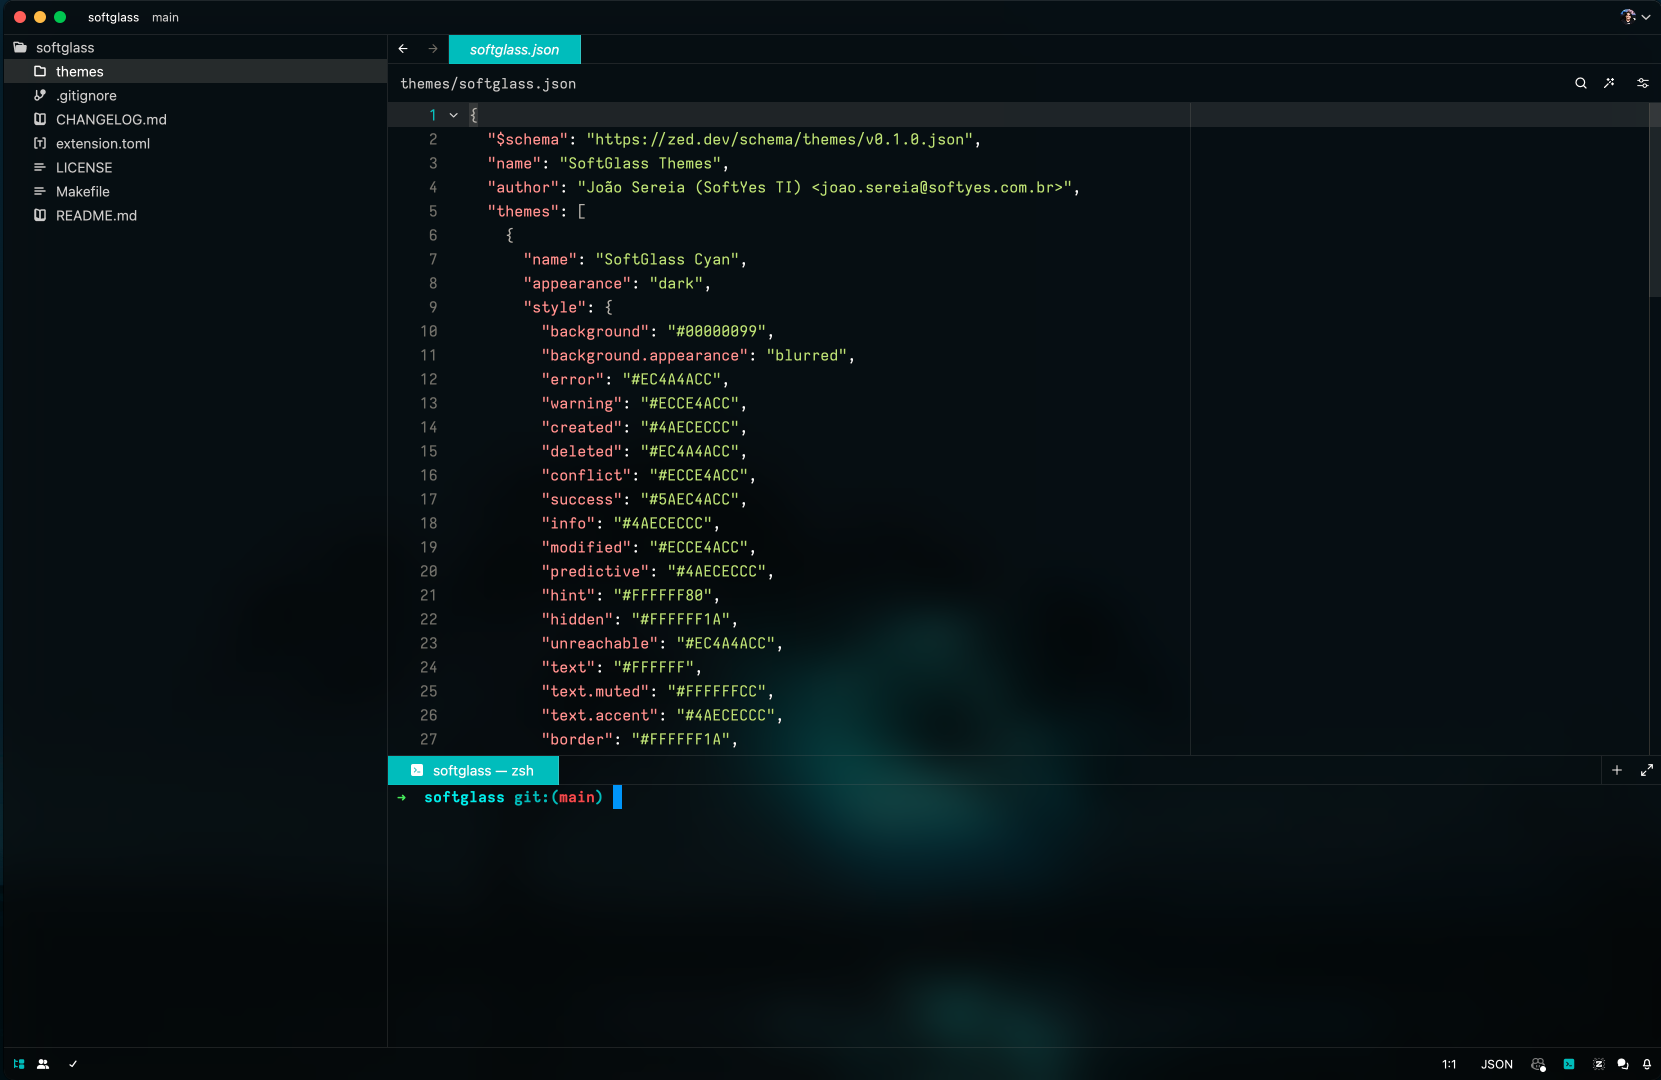
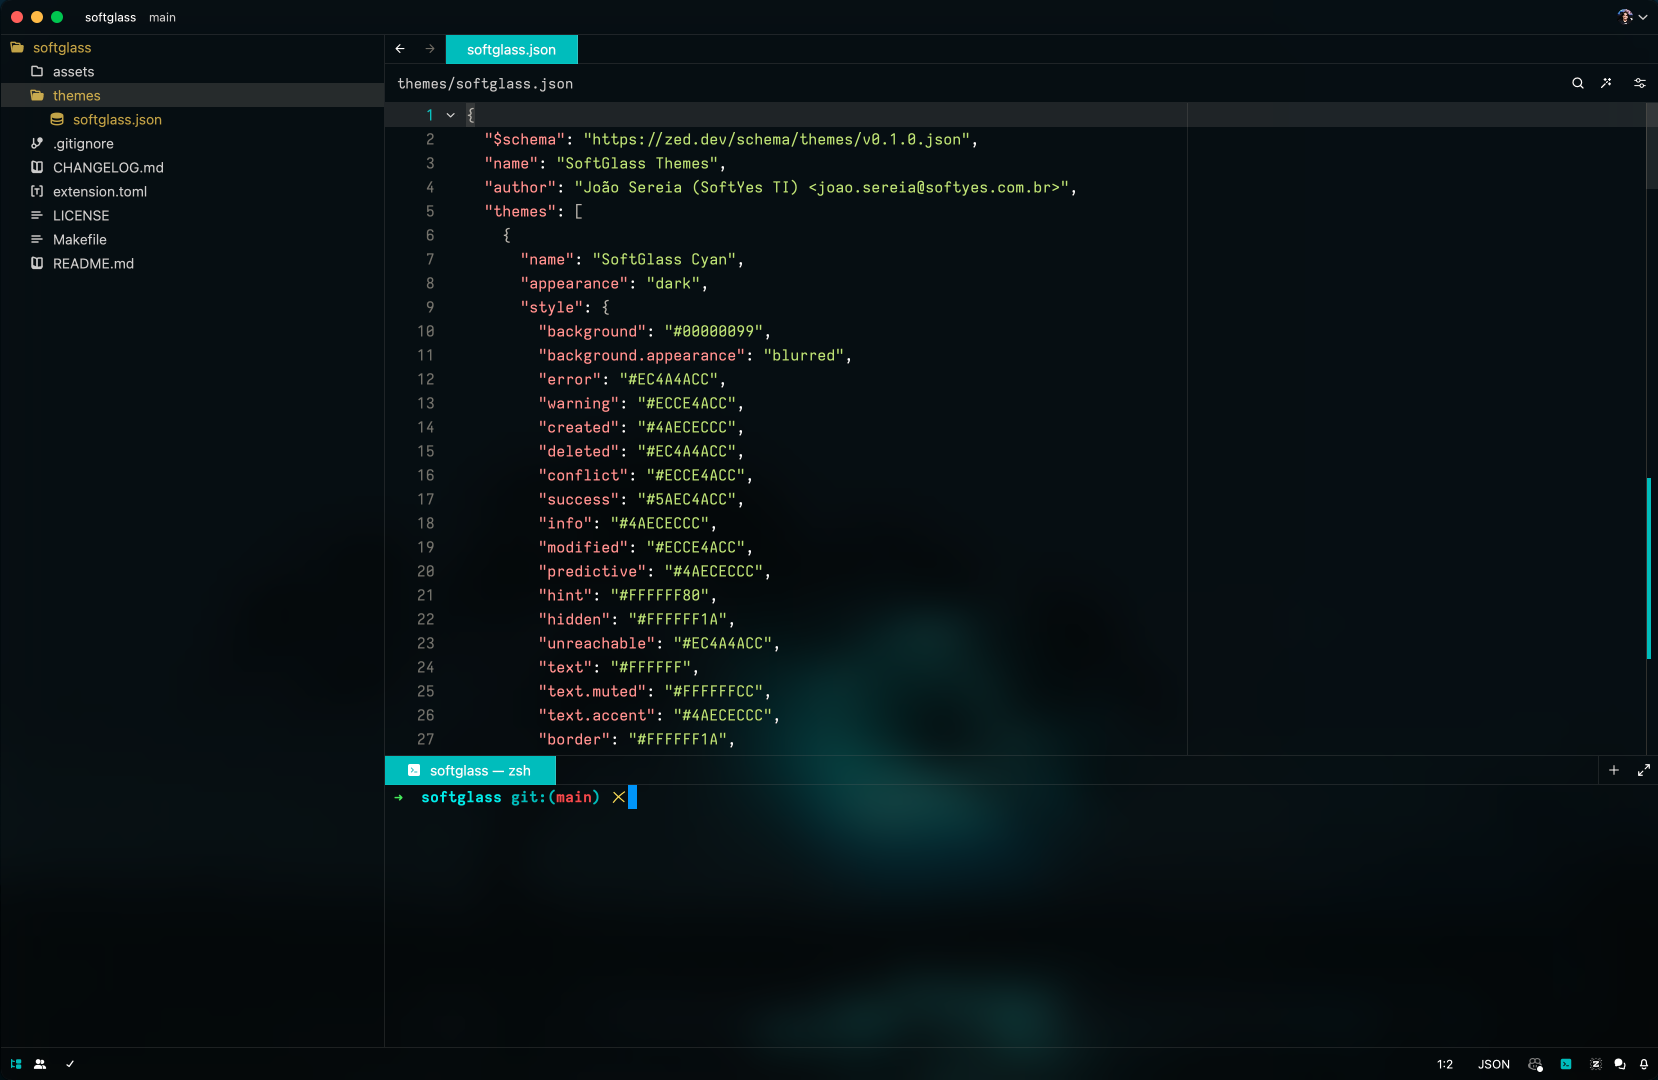
add orange theme and image; update version to 0.3.0; update changelog and readme

diff --git a/README.md b/README.md
@@ -10,6 +10,9 @@ Glass themes with color oprions for [Zed Code Editor](https://zed.dev/).
 - Pink theme
   ![cyan theme image](./assets/pink.png)
 
+- Orange theme
+  ![cyan theme image](./assets/orange.png)
+
 ## Contacts
 
 - E-mail: [joao.sereia@softyes.com.br](mailto:joao.sereia@softyes.com.br)

diff --git a/CHANGELOG.md b/CHANGELOG.md
@@ -1,9 +1,13 @@
 # Changelog
 
-## 0.2.0 (2024-04-28)
+## 0.3.0
+
+- Add orange theme
+
+## 0.2.0
 
 - Add pink theme
 
-## 0.1.0 (2024-04-27)
+## 0.1.0
 
 - Add cyan theme
